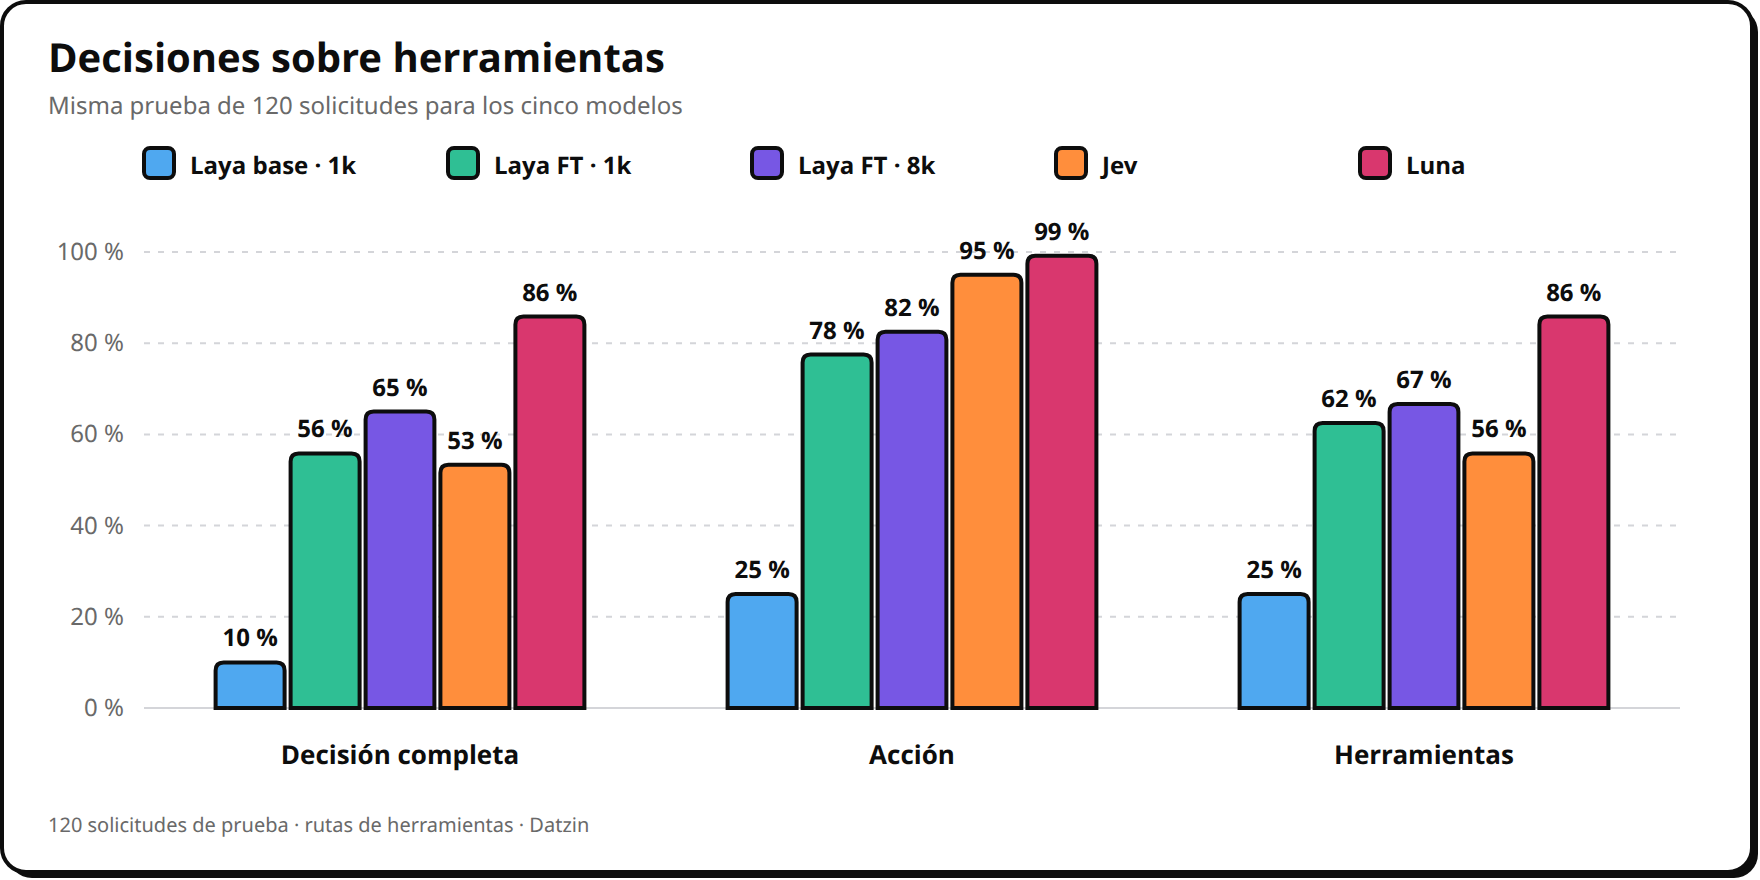
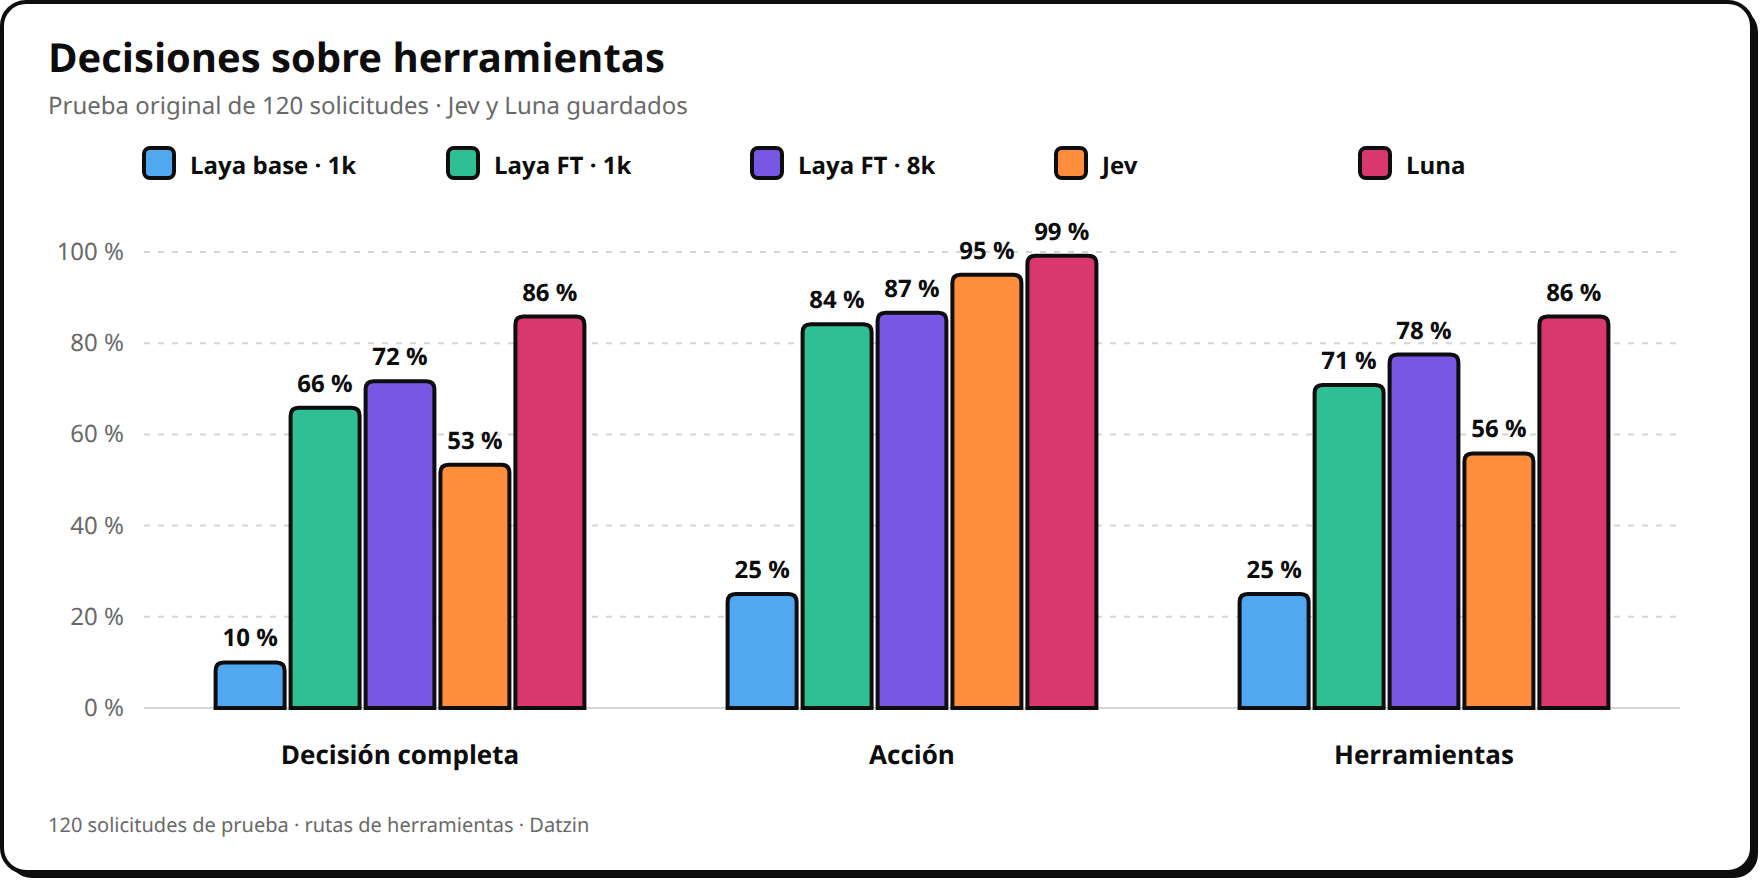
feat(benchmark): actualizar comparativa con nuevos pesos laya

diff --git a/scripts/benchmark_tool_routing.py b/scripts/benchmark_tool_routing.py
@@ -45,7 +45,11 @@ def main():
         raise ValueError(f"No hay casos de prueba en {task.test_path}")
     fingerprint = task.fingerprint(cases)
     test_sha256 = hashlib.sha256(task.test_path.read_bytes()).hexdigest()
+    weights_sha256 = None
     if args.model in CHECKPOINTS:
+        if args.model.startswith("laya-ft-"):
+            with (CHECKPOINTS[args.model] / "model.safetensors").open("rb") as source:
+                weights_sha256 = hashlib.file_digest(source, "sha256").hexdigest()
         model = load(CHECKPOINTS[args.model], device=args.device, ctx=1024 if args.model == "laya-base" else None)
         checkpoint = (str(CHECKPOINTS[args.model].relative_to(ROOT))
                       if isinstance(CHECKPOINTS[args.model], Path) else CHECKPOINTS[args.model])
@@ -59,12 +63,14 @@ def main():
         data = json.loads(path.read_text(encoding="utf-8"))
         if (data["fingerprint"], data["test_sha256"], data["checkpoint"]) != (fingerprint, test_sha256, checkpoint):
             raise ValueError(f"{path} contiene otra evaluación; elige otra ruta")
+        if weights_sha256 and data.get("weights_sha256") != weights_sha256:
+            raise ValueError(f"{path} contiene otros pesos; conserva esa corrida con otro nombre antes de repetirla")
         if data["status"] == "complete":
             print(f"Corrida completa: {path}")
             return
     else:
         data = {"model": args.model, "checkpoint": checkpoint, "context_size": context_size,
-                "device": device, "task": task.name, "fingerprint": fingerprint,
+                "weights_sha256": weights_sha256, "device": device, "task": task.name, "fingerprint": fingerprint,
                 "test_sha256": test_sha256, "created_at": datetime.now(timezone.utc).isoformat(),
                 "status": "running", "cost_usd": 0 if device == "api" else None, "rows": []}
         save(path, data)

diff --git a/scripts/plot_tool_routing.py b/scripts/plot_tool_routing.py
@@ -32,7 +32,8 @@ def runs():
                                                          "fingerprint", "test_sha256", "created_at", "status",
                                                          "all_correct", "total", "p50_latency_ms", "p95_latency_ms",
                                                          "cost_usd")}
-                          | {"key": key, "name": name, "action_correct": run["questions"]["action"]["correct"],
+                          | {"key": key, "name": name, "weights_sha256": run.get("weights_sha256"),
+                             "action_correct": run["questions"]["action"]["correct"],
                              "tool_set_correct": tool_set})
     else:
         loaded = json.loads((OUTPUT / "resultados.json").read_text(encoding="utf-8"))
@@ -60,7 +61,7 @@ def main():
                 100 * run["tool_set_correct"] / 120]
 
     charts = {
-        "acierto": chart("Decisiones sobre herramientas", "Misma prueba de 120 solicitudes para los cinco modelos",
+        "acierto": chart("Decisiones sobre herramientas", "Prueba original de 120 solicitudes · Jev y Luna guardados",
                          ["Decisión completa", "Acción", "Herramientas"], measured,
                          accuracy, lambda r, i: f"{accuracy(r)[i]:.0f} %",
                          [0, 20, 40, 60, 80, 100], lambda v: f"{v:.0f} %", footer),

diff --git a/README.md b/README.md
@@ -248,14 +248,15 @@ La tercera serie está en [`assets/comparativas/laya-ft-jev-luna/`](assets/compa
 [costo de API](assets/comparativas/laya-ft-jev-luna/costo.png) (también hay SVG).
 Mide una tarea distinta de los tickets anteriores: decidir si responder, pedir datos o usar herramientas,
 y elegir entre web, calendario, correo, archivos y base de datos. Los 120 casos de prueba escritos a mano
-son de [Laya-Finetune](https://github.com/zamax14/Laya-Finetune). Los cinco modelos respondieron las
-mismas preguntas y casos (`fingerprint: 72a19374dfd9`).
+corresponden a [Laya-Finetune `f14d0d5`](https://github.com/zamax14/Laya-Finetune/tree/f14d0d5).
+Los cinco modelos respondieron las mismas preguntas y casos (`fingerprint: 72a19374dfd9`).
+Jev y Luna conservan las respuestas de la primera corrida; solo se volvieron a medir los dos checkpoints FT.
 
 | Modelo | Decisión completa | Acción | Latencia p50 | Costo de API |
 |---|---:|---:|---:|---:|
 | Laya Multilingual base · 1k | 12/120 | 30/120 | 26 ms | $0 |
-| Laya FT · 1k | 67/120 | 93/120 | 26 ms | $0 |
-| Laya FT · 8k | 78/120 | 99/120 | 27 ms | $0 |
+| Laya FT · 1k | 79/120 | 101/120 | 27 ms | $0 |
+| Laya FT · 8k | 86/120 | 104/120 | 27 ms | $0 |
 | Jev 1.13 | 64/120 | 114/120 | 502 ms | $0.003090 |
 | GPT-5.6 Luna | 103/120 | 119/120 | 1541 ms | $0.027999 |
 
@@ -263,10 +264,13 @@ La decisión completa exige acertar la acción y las cinco herramientas. **1k y 
 configurados de los checkpoints**, no longitudes de entrada medidas aquí: esta prueba usa solicitudes
 cortas. Falta el checkpoint FT 32k. La latencia de Laya se midió en una RTX 4050 local; la de las APIs
 incluye red. $0 de API no equivale a costo total cero.
+La revisión actual de la tarea cambió 18 respuestas esperadas y el criterio de `ask_user`. Se conserva
+la prueba original para poder comparar con las respuestas de API ya guardadas, sin gastar nuevos tokens.
 
 Para repetir esta serie, instala el entorno de `Laya-Finetune`, conserva sus dos checkpoints en
 `.model-cache/` y ejecuta cada modelo con `scripts/benchmark_tool_routing.py` y
-`--task /ruta/a/Laya-Finetune/tasks/tool_routing.yaml`. `scripts/plot_tool_routing.py --png` regenera
+`--task /ruta/a/Laya-Finetune/tasks/tool_routing.yaml` **de la revisión `f14d0d5`**.
+`scripts/plot_tool_routing.py --png` regenera
 las imágenes desde los resultados locales o desde el
 [resumen publicado](assets/comparativas/laya-ft-jev-luna/resultados.json).
 
